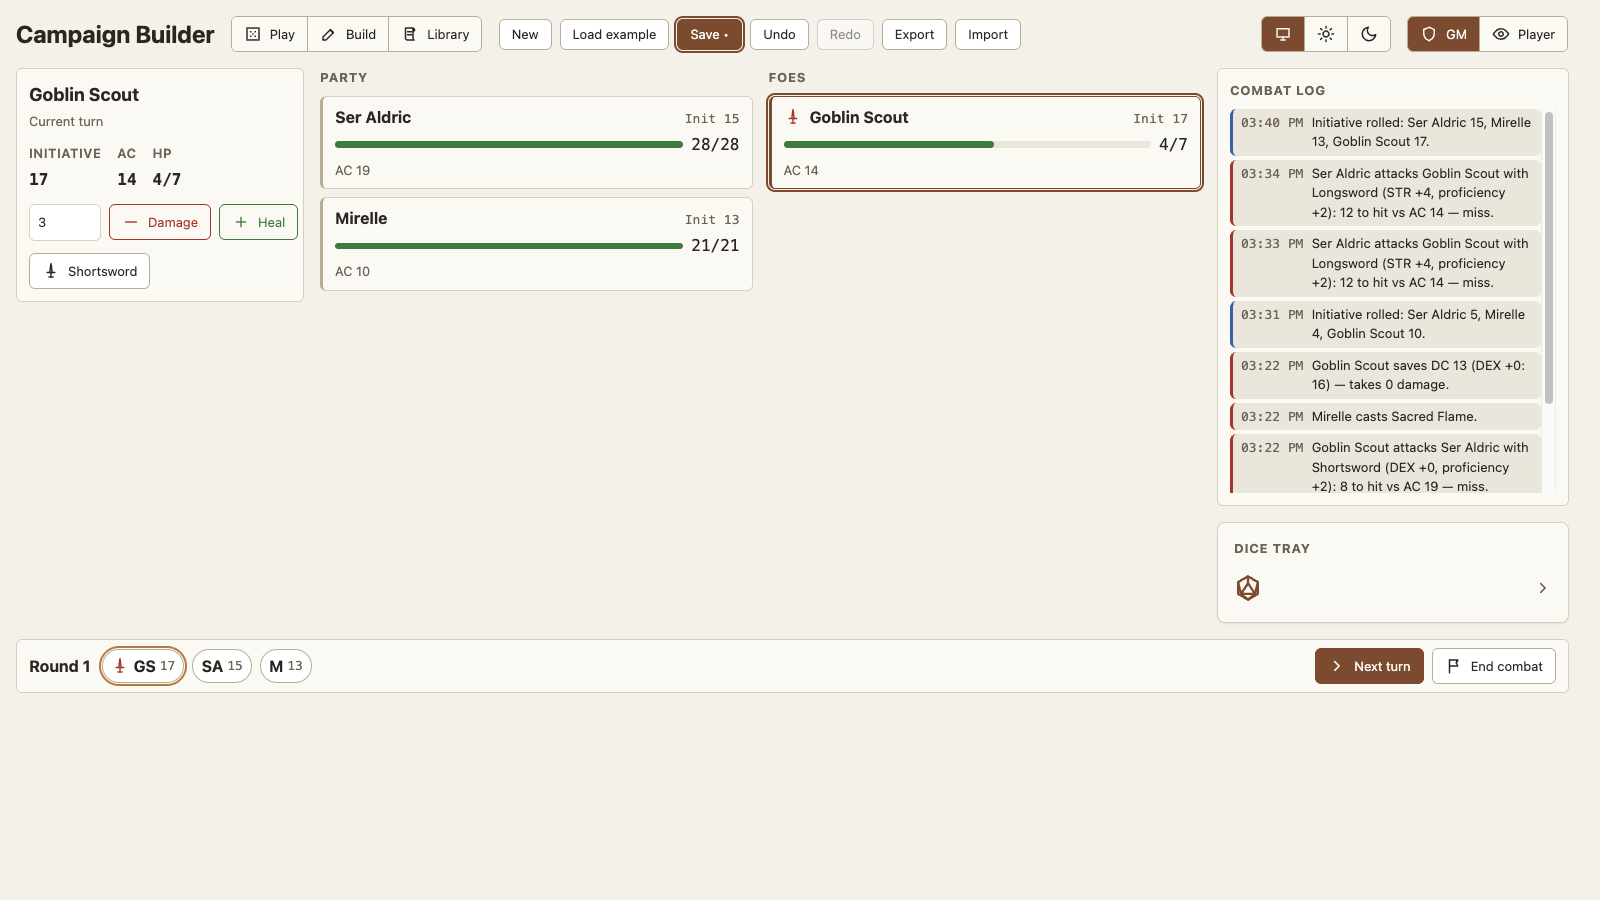
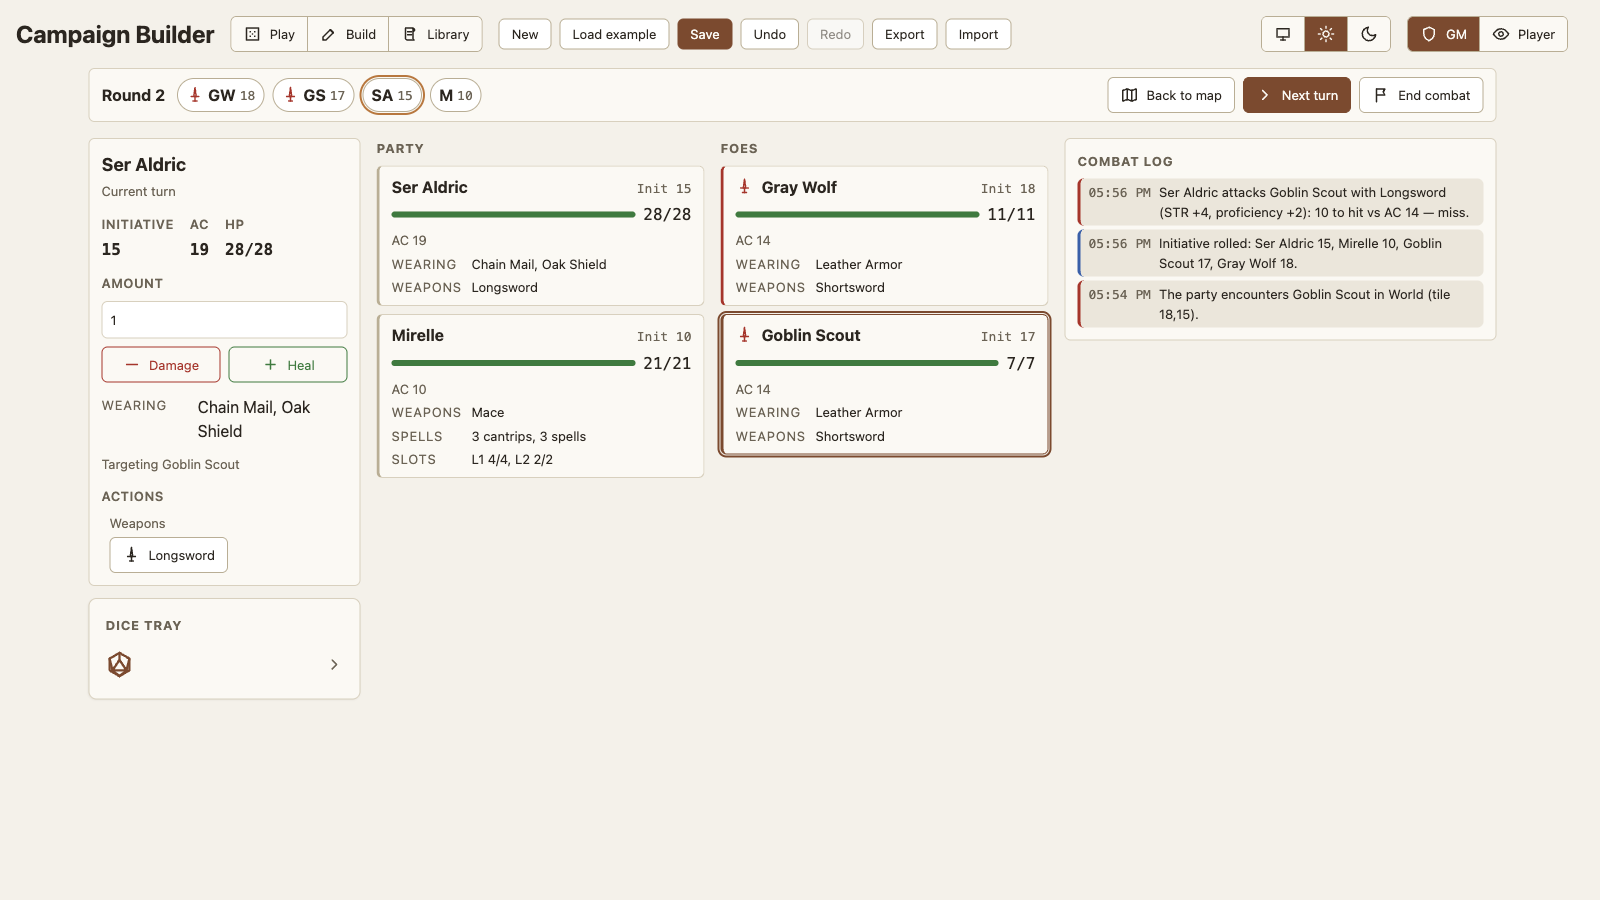
Document the combat screen as it now stands
The combat guide still described a bottom-of-screen turn ribbon, a GM-only set of turn controls, a closure copy of the running fight beside `state.combat`, and a fight that dropped when the last enemy did. It also had nothing on the loadout block or on how much of one a viewer may see. The guide now covers the single home for the fight and why the closure copy went, the outcome banner and the `encountersAtTile` auto-drop that keeps the screen up, `fightOutcome` and `loadoutAccess` beside `mayAct` as the module's other rules, the loadout in both its forms, the grouped action bar, Back to map, and the reload path that resumes a fight for a player as well as the GM.

The GM guide gets the same in table-facing terms: what a card shows about a combatant and what a player's tab is allowed to see of someone else's, that killing the last enemy leaves the fight open with a banner over the board, that End combat is the GM's alone, and that a bound player runs their own turn and ends it. The screenshot is re-captured on the current layout, and the README feature line names the loadout, the player's own turn, and the GM-ended fight.

diff --git a/docs/architecture/combat.md b/docs/architecture/combat.md
@@ -7,11 +7,18 @@ Running a fight gets its own mode. `combat` is the fourth `AppMode`, alongside
 columns entirely: `body.mode-combat` hides the map, the Play sidebar, and the
 authoring rails, and the full-width combat screen takes their place. There is
 no header button for it. The app enters combat mode when a fight starts and
-leaves when it ends, however it ends; the sidebar's Initiative card carries an
-Open combat button for a tab that stepped out to the map mid-fight, and a
-request for the mode with no fight running lands on Play instead
+leaves when it ends, however it ends; the ribbon's Back to map and the
+sidebar's Initiative card carry a tab back and forth mid-fight, and a request
+for the mode with no fight running lands on Play instead
 (`sessionControls.js` guards it), so a stale `setMode` can never show an empty
 screen.
+
+Combat mode is for both roles. Build and Library are authoring modes, so a tab
+switched to the Player role leaves them, but the same guard in
+`sessionControls.js` leaves a player on the combat screen: a player takes their
+own character's turn there, and bouncing them to the map would take the fight
+away from them. Since the header's mode switch is hidden on a player tab, the
+ribbon's Back to map is how a player reaches the map instead.
 
 This guide covers who owns what during a fight and how the screen stays
 current. The 5e resolution itself (attack rolls, casts, damage application)
@@ -24,13 +31,19 @@ and [entities](entities.md).
 ```
 src/combat/CombatView.js ..... pure: projects a CombatState into rows a
                                surface can draw (side, HP, AC, defeated,
-                               who may act)
+                               who may act), plus the fight's outcome
+src/combat/Loadout.js ........ pure: what a combatant is wearing, swinging,
+                               and holding in slots, and how much of that a
+                               given viewer may see
 src/ui/CombatScreen.js ....... the screen: active column, board, log column,
-                               turn ribbon, live region, keyboard handling
+                               turn ribbon, outcome banner, live region,
+                               keyboard handling
 src/ui/CombatantCard.js ...... one board card; doubles as a target-picker
                                button when given an onSelect
+src/ui/LoadoutBlock.js ....... a loadout as labelled lines, shared by the
+                               cards and the active column
 src/ui/CombatActionBar.js .... the active combatant's weapons and spells as
-                               one strip of buttons
+                               buttons, grouped by kind and spell level
 src/app/combatWiring.js ...... mounts the screen, holds its transient UI
                                state, routes everything else to actions
 src/app/encounterWiring.js ... still the only writer of state.combat; the
@@ -43,8 +56,12 @@ styles/combat.css ............ the mode's layout and the screen's styles
 ## One writer, two surfaces
 
 `encounterWiring.js` owned the running fight before the screen existed and
-still does: the `combat` closure variable, mirrored to `state.combat` through
-`setCombat`, is written nowhere else. The screen never holds a second copy.
+still does. The fight lives in `state.combat` and nowhere else: every read goes
+through a `current()` accessor and every write through `setCombat`, both local
+to that module. It used to keep a closure copy beside the state field, which a
+cross-tab rehydrate then could not reach: the rehydrate writes `state.combat`,
+so a follower tab whose fight had ended elsewhere kept drawing the old order.
+One home for the value removes that whole class of drift.
 Turn advance and combat end are registered on `app.actions` as
 `advanceCombatTurn` and `endCombat`, so the screen's Next turn and End combat
 buttons run exactly the code the fight has always run, round-wrap condition
@@ -74,8 +91,27 @@ of it is inspected visually instead.
 
 `mayAct` is the one viewer-dependent field: the GM may act for anyone
 including foes, a player only for the party character the tab is bound to.
-The screen uses it to gate the action bar, the HP controls, and the
-concentration Drop control.
+The screen uses it to gate the action bar, the HP controls, the concentration
+Drop control, and the turn-end button, which a player gets only on their own
+character's turn and which reads "End my turn" there rather than "Next turn".
+
+`fightOutcome(view)` is the other derivation in the module: `victory` once every
+foe row is defeated, `defeat` once every party row is, null while both sides
+still have someone standing. A side with nobody on it settles nothing, so an
+order the GM built with no foes in it reads as undecided. A mutual wipe reads as
+a defeat, since what happened to the party outweighs what happened to the
+monsters.
+
+### Who may see what
+
+`src/combat/Loadout.js` holds the second viewer rule. `loadoutAccess(found,
+viewer, id)` answers `full`, `public`, or `none`: the GM sees everything, a
+player sees their own character whole, another party member's armor and weapons
+only, and nothing at all of a foe. Armor and a drawn weapon are visible across
+the table; a caster's prepared list and remaining slots are that player's
+business, and a foe's sheet is the GM's to reveal. `buildLoadout` takes the
+access level and never assembles what the viewer may not see, so no surface
+downstream can leak it by drawing a field it was handed.
 
 ## The layout
 
@@ -86,14 +122,21 @@ turn it is: name, initiative, AC, HP (exact for the GM, the coarse band for a
 player), condition chips, and concentration with its Drop control. The GM
 gets a damage/heal amount and button pair, the Encounters panel's idiom,
 applied through `applyToTarget`, the same single write path every hit uses.
-Below that sits the **action bar** (`CombatActionBar.js`): one button per
-weapon and per castable spell of the current turn's combatant, resolved by
-the same `weaponsOf`/`spellsOf` derivations the sidebar strip used to read.
-The bar belongs to the turn, not the inspection, so inspecting a foe never
-offers its weapons to a player.
+Under the facts sits the combatant's **loadout** in its fuller form: weapons
+with their damage rolls, and a chip per slot pool. Below that sits the **action
+bar** (`CombatActionBar.js`): one button per weapon and per castable spell of
+the current turn's combatant, resolved by the same `weaponsOf`/`spellsOf`
+derivations the sidebar strip used to read. The buttons are grouped under an
+Actions heading, weapons first and then the spells by spell level under the
+spellbook's own headings, since a caster with a dozen spells was otherwise one
+undifferentiated run of buttons. The bar belongs to the turn, not the
+inspection, so inspecting a foe never offers its weapons to a player.
 
 The **board** shows the two sides as labelled groups of cards
-(`CombatantCard.js`). Each card is a real `<button>` acting as the target
+(`CombatantCard.js`). Each card carries the same loadout in a compact form
+(`LoadoutBlock.js` draws both, so a card and the column cannot describe one
+combatant differently), trimmed by the host to what that viewer may see. Each
+card is a real `<button>` acting as the target
 picker: clicking one holds it (`aria-pressed`), clicking again releases it,
 and the held id pre-fills the attack dialog's defender and the cast dialog's
 target field, whichever picker the spell built (single select, multiselect,
@@ -114,7 +157,32 @@ The **turn ribbon** runs under the columns: one chip per participant in
 order, initials plus initiative, the current turn ringed and marked
 `aria-current`, foes marked by icon rather than color alone, defeated chips
 struck through. Clicking a chip inspects without advancing the turn. The
-round counter and the GM's Next turn / End combat sit beside it.
+round counter and the turn controls sit beside it: Back to map for everyone,
+the turn-end button for whoever may take the current turn, and End combat for
+the GM alone.
+
+## Ending a fight
+
+A fight ends when the GM ends it, or when its participants are genuinely gone.
+Killing the last enemy is neither. It used to end the fight on the spot, which
+closed the screen mid-swing and took the log and the board away from whoever
+landed the hit, with no chance to heal up first.
+
+Two rules keep the screen up. The auto-drop in the initiative-panel wrapper
+reads `encountersAtTile` rather than `encountersOnTile`: the two differ only in
+that `encountersOnTile` filters the defeated out, so the wrapper now counts
+every encounter staged on the party's tile including the dead ones. Walking off
+the tile or deleting the last encounter still clears the fight; a kill does not.
+And the screen grows a banner under the ribbon once `fightOutcome` settles,
+saying that the party is victorious or defeated, with a line for the GM that
+combat stays open until they end it. End combat takes the primary emphasis from
+the turn-end button at that point, and turns still advance, so a round of
+healing is available before leaving.
+
+The banner is a persistent `role="status"` node rather than one rebuilt per
+render, unhidden before its text is written: a status region hidden at the
+moment of the change is not read out, and a rebuilt node would re-announce the
+outcome on every HP edit.
 
 ## How the screen stays current
 
@@ -141,7 +209,9 @@ reached from four directions:
   fight).
 
 A reload with a fight running re-enters combat mode from `main.js`, after
-`wireSessionControls` has registered `setMode`, and only on a GM tab. It is
+`wireSessionControls` has registered `setMode`, whatever the tab's role: a
+player takes their turn on that screen too, and Back to map leaves for anyone
+who would rather watch the map. It is
 deliberately not part of `rehydrate.js`: cross-tab rehydrate adopts campaign
 state in place and leaves `mode` out of its synced keys, so a Player-pinned
 display never inherits the GM tab's mode. `combat` is in the synced keys, and
@@ -164,4 +234,4 @@ the buttons per keypress, since every render replaces them.
 `InitiativePanel.js` dropped to a status card when the screen took over: one
 line ("Round 3, Mirelle's turn", resolved through `describe` so renames show)
 plus Open combat. The card still only shows while a fight is running, and the
-wrapper around its `update` still owns the walked-off-the-tile auto-drop.
+wrapper around its `update` still owns the auto-drop described above.

diff --git a/docs/gm-guide.md b/docs/gm-guide.md
@@ -460,8 +460,15 @@ and its panels step aside and the fight takes the full width. The left column
 details the **active combatant** (whoever's turn it is): initiative, AC, HP,
 condition chips, concentration with its Drop control, and a damage/heal pair
 for quick GM adjustments (resistances, temporary HP rulings, undoing a roll).
+Under those sits their **loadout**: the armor they are wearing, each weapon
+with its damage roll, how many cantrips and spells they have, and a chip per
+spell-slot pool.
 The center is the **board**, the two sides as cards showing each combatant's
-HP bar, AC, and conditions. The right column keeps the **combat log** (the
+HP bar, AC, conditions, and a shorter form of the same loadout, so picking a
+target does not mean opening a sheet to see what it swings. A player's own card
+shows their spells and slots; another player's card shows armor and weapons
+only, and a foe's card shows no loadout at all until the GM's tab looks at it.
+The right column keeps the **combat log** (the
 travelogue's combat and roll entries, newest first) with the **dice tray**
 docked beneath it, so every roll happens in view; both return to their usual
 places when the fight ends. Across the bottom runs the **turn ribbon**: one
@@ -469,19 +476,24 @@ chip per combatant in initiative order, the current turn ringed, foes marked
 with a sword, defeated combatants struck through. Clicking a chip inspects
 that combatant in the left column without advancing the turn.
 
-The sidebar's **Initiative** card stays as the pointer to the fight: the
-round, whose turn it is, and an **Open combat** button. Switch to Play in the
-header any time to check the map mid-fight and come back through that button.
+The ribbon's **Back to map** leaves the screen without ending the fight, and
+the sidebar's **Initiative** card is the way back: the round, whose turn it is,
+and an **Open combat** button.
 
 Step through the fight with **Next turn**; the round counter advances, and on
-each new round timed conditions tick down and expire on their own. **End
-combat** ends the fight and returns to Play, as does walking off the tile or
-defeating the last encounter on it.
+each new round timed conditions tick down and expire on their own. Defeating
+the last enemy does not end the fight. A banner appears over the board saying
+the party is victorious, and the fight stays open so everyone can heal, read the
+log, and take another round if they want one. **End combat** is what closes it
+and returns to Play, and it is the GM's button alone. A fight also ends on its
+own if the party walks off the tile, or if you delete the last encounter staged
+there.
 
 Acting is two clicks. **Click a board card to target it** (click again to
 release), then pick from the **action bar** under the active combatant: their
 weapons as attack buttons (a party member's equipped weapons, a foe's
-assigned weapon) and a caster's castable spells as cast buttons. The attack
+assigned weapon), then a caster's castable spells as cast buttons, grouped by
+spell level under the same headings the spellbook uses. The attack
 dialog opens with your targeted defender already picked, so plain Enter rolls
 it; the situational overrides (bonus or penalty dice from Bless or Bane,
 smite dice, flat riders) sit behind a **Situational modifiers** disclosure
@@ -498,14 +510,15 @@ weapon's damage dice roll too, ability modifier folded into the base term
 (proficiency never adds to damage), and the total lands in the combat log and
 a toast by damage type ("12 slashing + 3 fire"), along with any status
 effects the weapon inflicts. Damage is **applied to the defender
-automatically**: an encounter's HP drops on the spot, defeat is logged, and
-downing the last foe ends the combat; a character hit by a foe loses bonus HP
-first, then real HP, with a log line when they drop to 0. NPCs carry no HP,
-so a hit on one stays a log line.
+automatically**: an encounter's HP drops on the spot and defeat is logged; a
+character hit by a foe loses bonus HP first, then real HP, with a log line when
+they drop to 0. NPCs carry no HP, so a hit on one stays a log line.
 
-A player tab sees the same screen read-only: coarse HP bands instead of
-numbers, no turn controls, no HP editing. On a bound tab, the player drives
-their own character's turn from the same action bar. Players reach the screen
+A player tab sees the same screen with coarse HP bands instead of numbers, no
+HP editing, and no End combat. On a tab bound to a character, that player runs
+their own turn: the action bar offers their weapons and spells when their turn
+comes up, and **End my turn** passes the turn on. A player tab follows the
+party into the fight on its own, and Back to map lets them step out and return
 through the sidebar card's Open combat button.
 
 ### Characters, HP, and resources

diff --git a/README.md b/README.md
@@ -17,7 +17,7 @@ With Campaign Builder, you can:
     - You can progressively reveal parts of the map as your party travels. Unexplored areas remain greyed out until your party moves closer
     - Track your party's location on the map at all times
   - Add major enemies/encounters with life tracking
-  - Run fights on a dedicated full-width combat screen: a turn ribbon over the initiative order, combatant cards that double as target pickers, one-click attack and cast buttons for whoever's turn it is, and the combat log and dice tray docked alongside
+  - Run fights on a dedicated full-width combat screen: a turn ribbon over the initiative order, combatant cards that double as target pickers and show what each side is wearing, swinging, and holding in spell slots, one-click attack and cast buttons for whoever's turn it is, and the combat log and dice tray docked alongside. A player on a bound tab runs their own character's turn, and the fight stays up after the last enemy drops until the GM ends it
   - Add resource tracking (items, D&D-style spell slots, and other expendable character-based resources)
   - Add character sheets with full character stats, class (and subclass), race, background, assembled proficiencies, hit dice, spellcasting, and level/progression tracking with per-level class assignment, multiclassing, and ability-score-improvement/feat choices
   - Simulate dice rolls and their results for any combination of dice needed in an interaction
